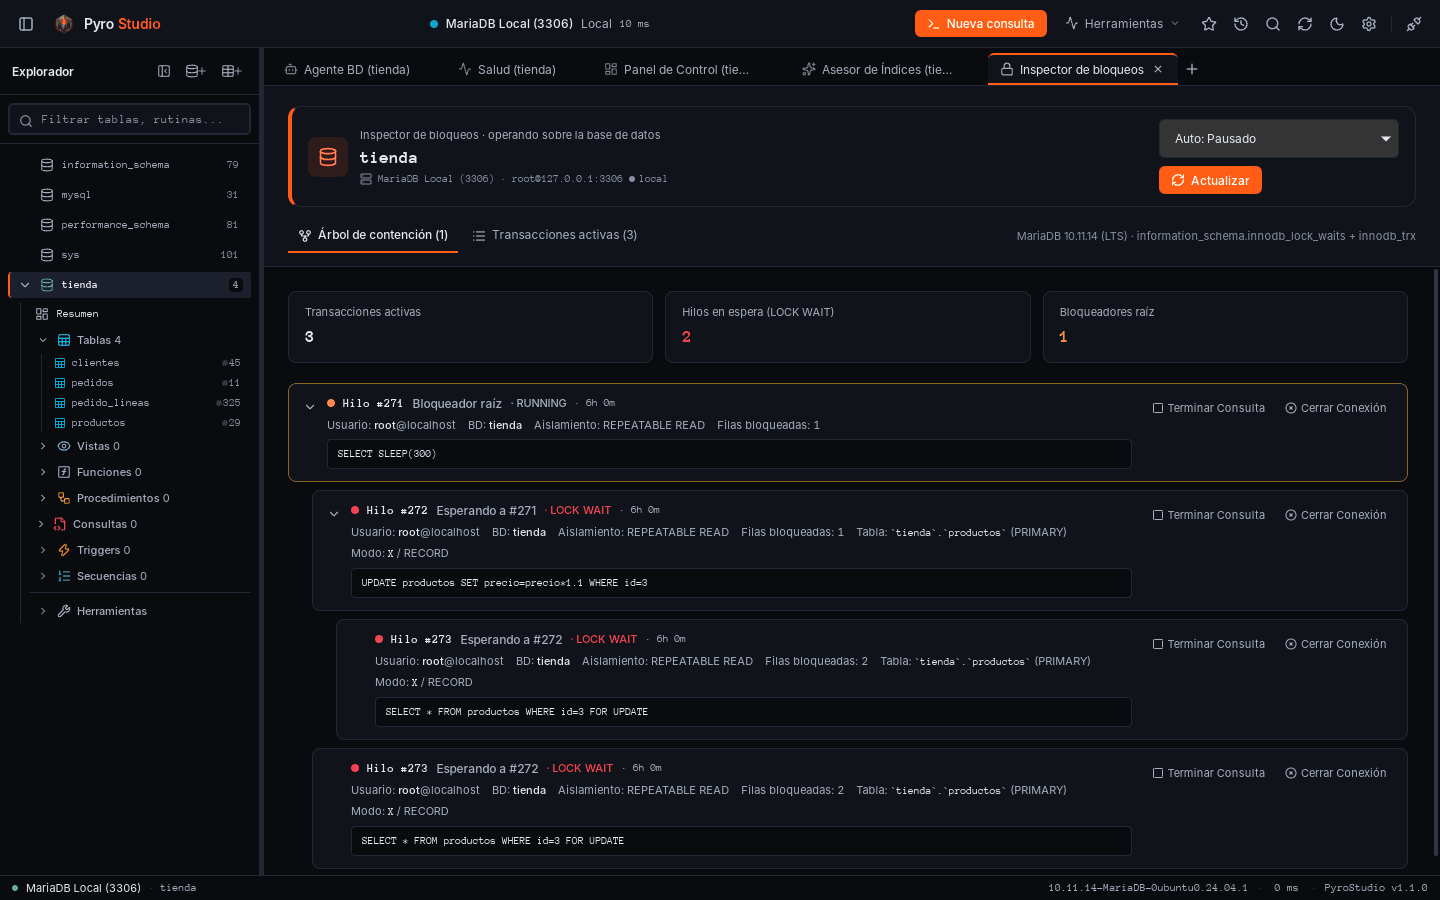
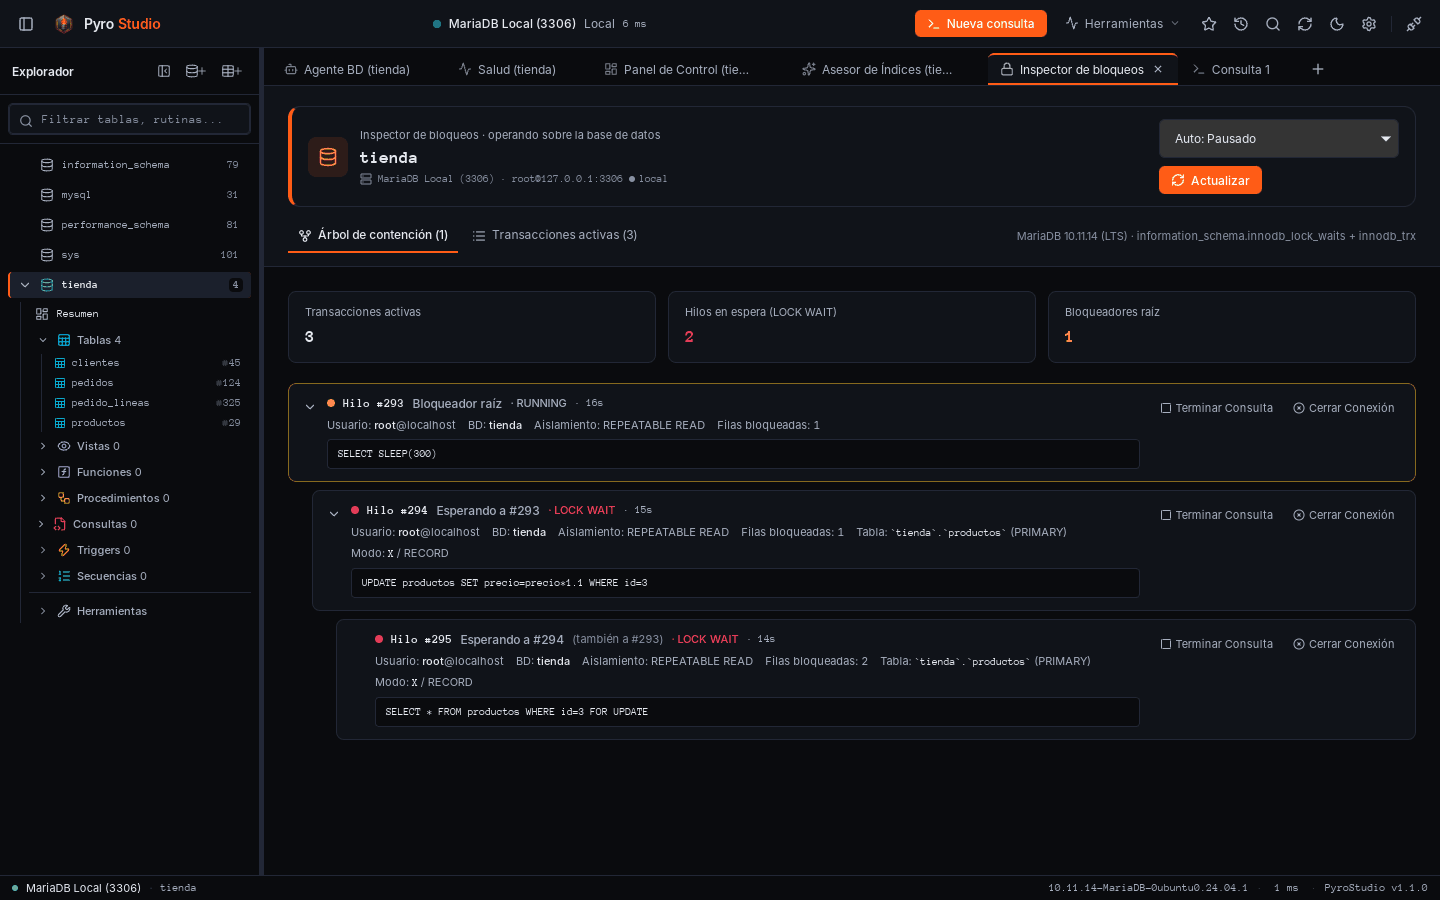
fix(locks): duraciones desfasadas por zona horaria y hilos duplicados en el árbol de contención
- innodb_trx.trx_started (y wait_started) vienen en la hora local del
  servidor, pero la sesión de sqlx usa time_zone='+00:00', así que
  TIMESTAMPDIFF(..., NOW()) sumaba el offset (p. ej. '6h 0m' en UTC-6).
  Ahora se compara contra CONVERT_TZ(UTC_TIMESTAMP(), '+00:00', 'SYSTEM').
- Un hilo que espera a varios bloqueadores se dibujaba bajo cada uno de
  ellos. Ahora aparece una sola vez, bajo su bloqueador principal (se
  prefiere el que a su vez espera, para mantener la cadena), y los demás
  se exponen en other_blocking_thread_ids y se muestran como
  '(también a #N)'.
- Prueba unitaria para el caso de varios bloqueadores.
- Actualiza la captura del inspector de bloqueos en el README.

Claude-Session: https://claude.ai/code/session_01DmBStGg1igKGzgqZfbfHQe

diff --git a/src/components/LocksInspectorTab.tsx b/src/components/LocksInspectorTab.tsx
@@ -304,6 +304,11 @@ export const LocksInspectorTab: React.FC<LocksInspectorTabProps> = ({ database }
                         ? `Esperando a #${node.blocking_thread_id}`
                         : "Transacción"}
                   </span>
+                  {isWaiting && (node.other_blocking_thread_ids?.length ?? 0) > 0 && (
+                    <span className="text-fg-subtle text-[11px]">
+                      (también a {node.other_blocking_thread_ids!.map((id) => `#${id}`).join(", ")})
+                    </span>
+                  )}
                   {node.trx_state && (
                     <span
                       className={`text-[11px] font-medium ${

diff --git a/src/types/database.ts b/src/types/database.ts
@@ -2074,6 +2074,8 @@ export interface LockTreeNode {
   sql_text: string;
   is_root_blocker: boolean;
   blocking_thread_id?: number | null;
+  /** Other threads this one also waits on; the node is shown only under `blocking_thread_id`. */
+  other_blocking_thread_ids?: number[];
   has_cycle: boolean;
   children: LockTreeNode[];
 }

diff --git a/src-tauri/src/db/locks.rs b/src-tauri/src/db/locks.rs
@@ -71,6 +71,9 @@ pub struct LockTreeNode {
     pub sql_text: String,
     pub is_root_blocker: bool,
     pub blocking_thread_id: Option<u64>,
+    /// Additional threads this one is also waiting on (it is shown under `blocking_thread_id` only).
+    #[serde(default)]
+    pub other_blocking_thread_ids: Vec<u64>,
     pub has_cycle: bool,
     pub children: Vec<LockTreeNode>,
 }
@@ -252,7 +255,7 @@ pub async fn get_active_locks_and_transactions(
             COALESCE(trx_state, ''),
             trx_mysql_thread_id,
             COALESCE(trx_query, ''),
-            GREATEST(0, COALESCE(TIMESTAMPDIFF(SECOND, trx_started, NOW()), 0)),
+            GREATEST(0, COALESCE(TIMESTAMPDIFF(SECOND, trx_started, CONVERT_TZ(UTC_TIMESTAMP(), '+00:00', 'SYSTEM')), 0)),
             COALESCE(trx_rows_locked, 0),
             COALESCE(trx_rows_modified, 0),
             COALESCE(trx_lock_structs, 0),
@@ -298,7 +301,7 @@ pub async fn get_active_locks_and_transactions(
                     COALESCE(rl.LOCK_TYPE, ''),
                     COALESCE(CONCAT(rl.OBJECT_SCHEMA, '.', rl.OBJECT_NAME), COALESCE(rl.OBJECT_NAME, '')),
                     COALESCE(rl.INDEX_NAME, ''),
-                    GREATEST(0, COALESCE(TIMESTAMPDIFF(SECOND, r_trx.trx_wait_started, NOW()), 0))
+                    GREATEST(0, COALESCE(TIMESTAMPDIFF(SECOND, r_trx.trx_wait_started, CONVERT_TZ(UTC_TIMESTAMP(), '+00:00', 'SYSTEM')), 0))
                 FROM performance_schema.data_lock_waits w
                 LEFT JOIN performance_schema.data_locks rl
                     ON w.REQUESTING_ENGINE_LOCK_ID = rl.ENGINE_LOCK_ID
@@ -326,7 +329,7 @@ pub async fn get_active_locks_and_transactions(
                             '',
                             COALESCE(locked_table, ''),
                             COALESCE(locked_index, ''),
-                            GREATEST(0, COALESCE(TIMESTAMPDIFF(SECOND, wait_started, NOW()), 0))
+                            GREATEST(0, COALESCE(TIMESTAMPDIFF(SECOND, wait_started, CONVERT_TZ(UTC_TIMESTAMP(), '+00:00', 'SYSTEM')), 0))
                         FROM sys.innodb_lock_waits
                     "#;
                     match backend.execute_query(sys_sql, None).await {
@@ -354,7 +357,7 @@ pub async fn get_active_locks_and_transactions(
                     COALESCE(l.lock_type, ''),
                     COALESCE(l.lock_table, ''),
                     COALESCE(l.lock_index, ''),
-                    GREATEST(0, COALESCE(TIMESTAMPDIFF(SECOND, r_trx.trx_wait_started, NOW()), 0))
+                    GREATEST(0, COALESCE(TIMESTAMPDIFF(SECOND, r_trx.trx_wait_started, CONVERT_TZ(UTC_TIMESTAMP(), '+00:00', 'SYSTEM')), 0))
                 FROM information_schema.innodb_lock_waits w
                 LEFT JOIN information_schema.innodb_locks l
                     ON w.requested_lock_id = l.lock_id
@@ -454,11 +457,14 @@ pub fn build_lock_graph(
         all_threads.insert(edge.blocking_thread_id);
     }
 
-    // Map waiting_thread -> primary blocking_thread + edge metadata
-    let mut blocked_by: HashMap<u64, &LockWaitEdge> = HashMap::new();
+    // All blockers of each waiting thread, and all waiters of each blocker.
+    let mut edges_by_waiter: HashMap<u64, Vec<&LockWaitEdge>> = HashMap::new();
     let mut blockers_to_waiters: HashMap<u64, Vec<u64>> = HashMap::new();
     for edge in wait_edges {
-        blocked_by.entry(edge.waiting_thread_id).or_insert(edge);
+        if edge.waiting_thread_id == edge.blocking_thread_id {
+            continue;
+        }
+        edges_by_waiter.entry(edge.waiting_thread_id).or_default().push(edge);
         blockers_to_waiters
             .entry(edge.blocking_thread_id)
             .or_default()
@@ -469,10 +475,47 @@ pub fn build_lock_graph(
         waiters.dedup();
     }
 
+    // A thread can wait on several blockers at once (e.g. queued behind another waiter on the
+    // same row). It must appear only once in the tree, under a single *primary* blocker:
+    // prefer a blocker that is itself waiting (keeps the chain A -> B -> C instead of a fan),
+    // then the lowest thread id for stable output. The rest are reported as secondary blockers.
+    let mut blocked_by: HashMap<u64, &LockWaitEdge> = HashMap::new();
+    let mut other_blockers: HashMap<u64, Vec<u64>> = HashMap::new();
+    for (waiter, edges) in &edges_by_waiter {
+        let primary = edges
+            .iter()
+            .min_by_key(|e| {
+                (
+                    !edges_by_waiter.contains_key(&e.blocking_thread_id),
+                    e.blocking_thread_id,
+                )
+            })
+            .copied()
+            .expect("edges_by_waiter entries are never empty");
+        blocked_by.insert(*waiter, primary);
+        let mut others: Vec<u64> = edges
+            .iter()
+            .map(|e| e.blocking_thread_id)
+            .filter(|b| *b != primary.blocking_thread_id)
+            .collect();
+        others.sort_unstable();
+        others.dedup();
+        other_blockers.insert(*waiter, others);
+    }
+
+    // Tree edges: blocker -> waiters for which it is the primary blocker.
+    let mut tree_children: HashMap<u64, Vec<u64>> = HashMap::new();
+    for (waiter, edge) in &blocked_by {
+        tree_children.entry(edge.blocking_thread_id).or_default().push(*waiter);
+    }
+    for waiters in tree_children.values_mut() {
+        waiters.sort_unstable();
+    }
+
     // Identify root blockers: threads that block at least one waiter and are not themselves blocked.
     // If a pure cycle exists where every blocker in the component is also blocked, pick the lowest thread_id
     // in that component as a synthetic root so the cycle is still visible and never loops infinitely.
-    let mut root_blockers: Vec<u64> = blockers_to_waiters
+    let mut root_blockers: Vec<u64> = tree_children
         .keys()
         .copied()
         .filter(|tid| !blocked_by.contains_key(tid))
@@ -490,7 +533,8 @@ pub fn build_lock_graph(
             &trx_by_thread,
             processes,
             &blocked_by,
-            &blockers_to_waiters,
+            &tree_children,
+            &other_blockers,
             &mut path,
             &mut covered,
         );
@@ -498,7 +542,7 @@ pub fn build_lock_graph(
     }
 
     // Handle any remaining cycle components not reachable from an unblocked root
-    let mut remaining_blockers: Vec<u64> = blockers_to_waiters
+    let mut remaining_blockers: Vec<u64> = tree_children
         .keys()
         .copied()
         .filter(|tid| !covered.contains(tid))
@@ -515,7 +559,8 @@ pub fn build_lock_graph(
             &trx_by_thread,
             processes,
             &blocked_by,
-            &blockers_to_waiters,
+            &tree_children,
+            &other_blockers,
             &mut path,
             &mut covered,
         );
@@ -610,7 +655,8 @@ fn build_node_recursive(
     trx_by_thread: &BTreeMap<u64, &TrxRow>,
     processes: &HashMap<u64, ProcessRow>,
     blocked_by: &HashMap<u64, &LockWaitEdge>,
-    blockers_to_waiters: &HashMap<u64, Vec<u64>>,
+    tree_children: &HashMap<u64, Vec<u64>>,
+    other_blockers: &HashMap<u64, Vec<u64>>,
     path_visited: &mut HashSet<u64>,
     covered: &mut HashSet<u64>,
 ) -> LockTreeNode {
@@ -635,7 +681,7 @@ fn build_node_recursive(
 
     let mut has_cycle = false;
     let mut children = Vec::new();
-    if let Some(waiters) = blockers_to_waiters.get(&thread_id) {
+    if let Some(waiters) = tree_children.get(&thread_id) {
         for &child_id in waiters {
             if path_visited.contains(&child_id) {
                 has_cycle = true;
@@ -647,7 +693,8 @@ fn build_node_recursive(
                 trx_by_thread,
                 processes,
                 blocked_by,
-                blockers_to_waiters,
+                tree_children,
+                other_blockers,
                 path_visited,
                 covered,
             );
@@ -681,6 +728,7 @@ fn build_node_recursive(
         sql_text,
         is_root_blocker,
         blocking_thread_id: wait_edge.map(|e| e.blocking_thread_id),
+        other_blocking_thread_ids: other_blockers.get(&thread_id).cloned().unwrap_or_default(),
         has_cycle,
         children,
     }
@@ -932,6 +980,39 @@ mod tests {
         assert_eq!(tree[0].children[0].thread_id, 2);
         assert!(tree[0].children[0].has_cycle);
         assert!(tree[0].children[0].children.is_empty());
+    }
+
+    #[test]
+    fn waiter_with_several_blockers_appears_once_under_its_chain() {
+        // Thread 30 is queued behind both the root (10) and another waiter (20) on the same row,
+        // which is what InnoDB reports for a second waiter. It must not be rendered twice.
+        let edge = |waiting: u64, blocking: u64| LockWaitEdge {
+            waiting_thread_id: waiting,
+            blocking_thread_id: blocking,
+            waiting_trx_id: None,
+            blocking_trx_id: None,
+            lock_mode: Some("X".into()),
+            lock_type: Some("RECORD".into()),
+            locked_table: Some("shop.orders".into()),
+            locked_index: Some("PRIMARY".into()),
+            wait_duration_seconds: 5,
+        };
+        let edges = vec![edge(20, 10), edge(30, 10), edge(30, 20)];
+
+        let (tree, _, blocked_count, root_count) = build_lock_graph(&[], &HashMap::new(), &edges);
+
+        assert_eq!(root_count, 1);
+        assert_eq!(blocked_count, 2);
+        assert_eq!(tree[0].thread_id, 10);
+        assert_eq!(tree[0].children.len(), 1, "30 must not also hang directly from 10");
+        let middle = &tree[0].children[0];
+        assert_eq!(middle.thread_id, 20);
+        assert_eq!(middle.children.len(), 1);
+        let leaf = &middle.children[0];
+        assert_eq!(leaf.thread_id, 30);
+        assert_eq!(leaf.blocking_thread_id, Some(20));
+        assert_eq!(leaf.other_blocking_thread_ids, vec![10]);
+        assert_eq!(count_descendants(&tree[0]), 2);
     }
 
     #[test]
